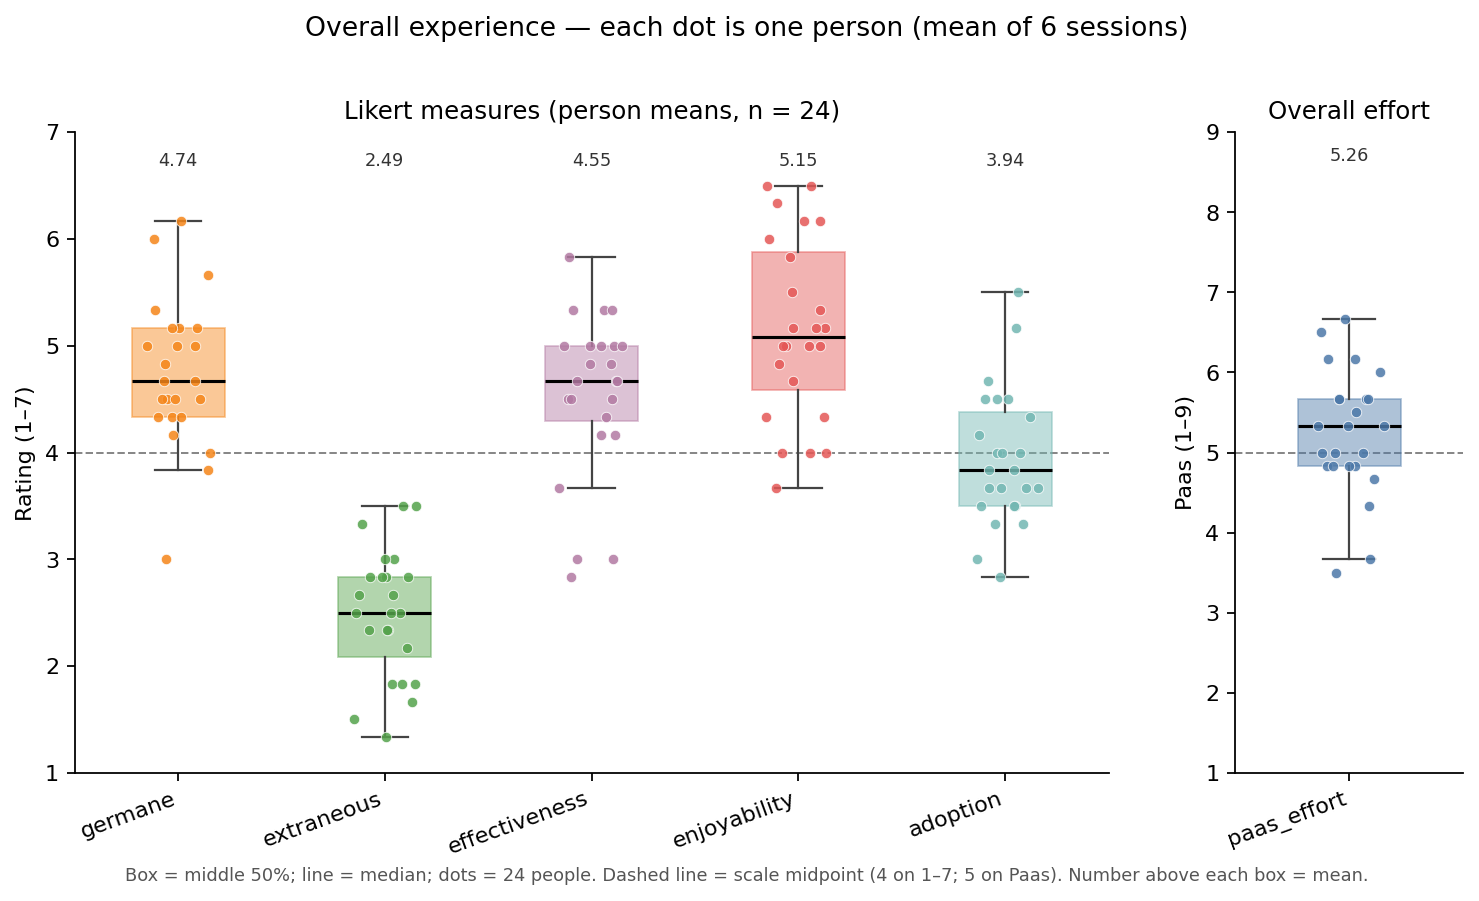
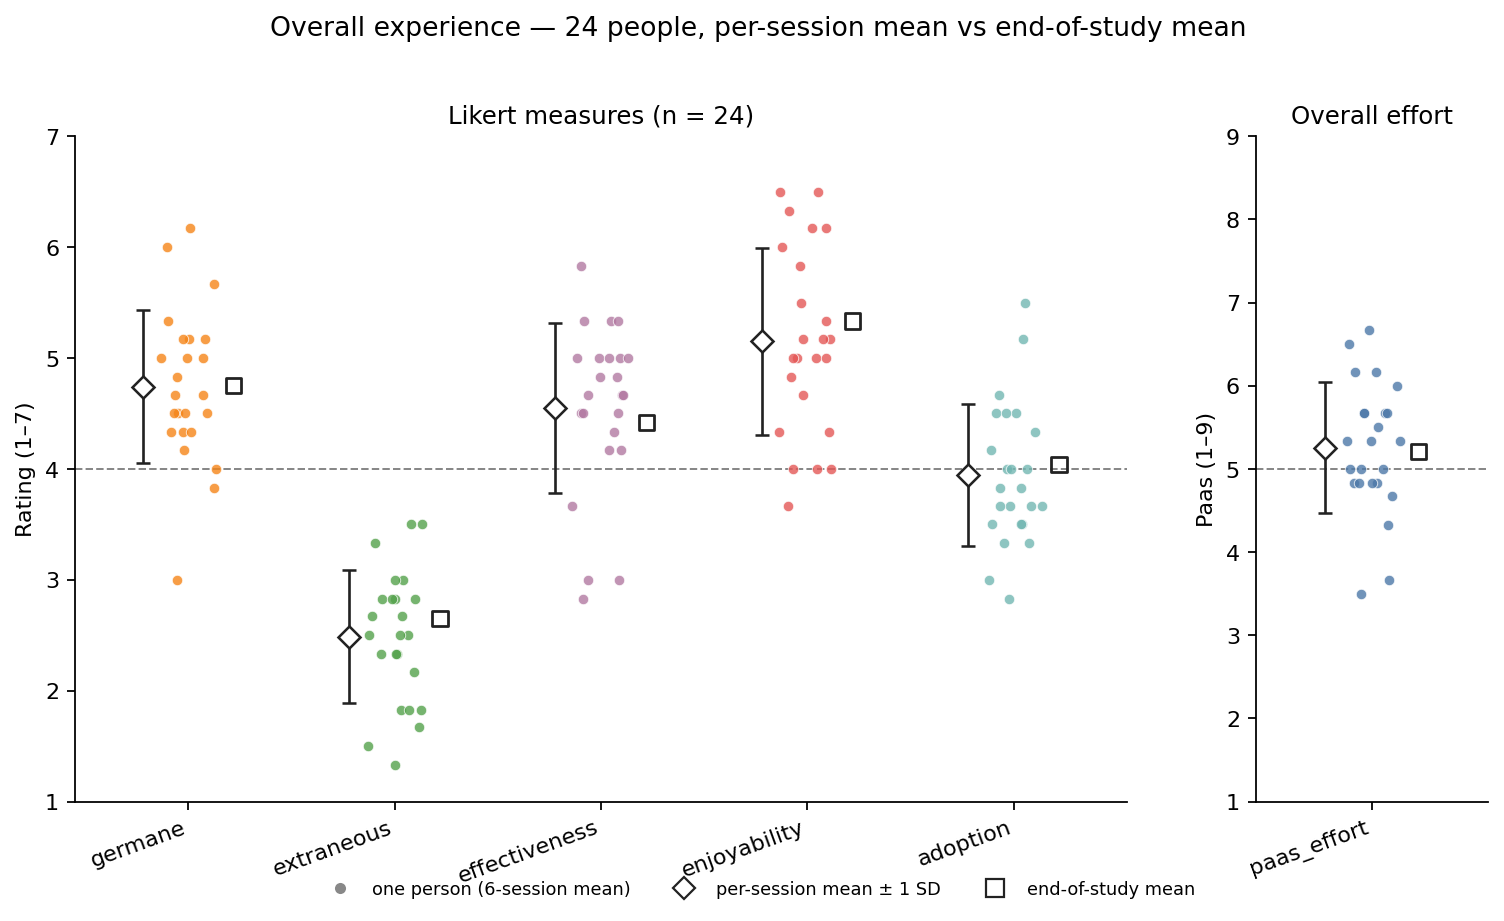
Updated report sample

diff --git a/analysis/rq2/sample-report-1/R2_example_report.md b/analysis/rq2/sample-report-1/R2_example_report.md
@@ -7,11 +7,10 @@
 - Per-session: one item each, 6 sessions.
 - End-of-study: 3-item scales of the same constructs, plus one Paas item (1–9).
 
-  
-**Descriptive only.** 
+**Descriptive only.**
 - Person is the unit: each per-session score below is that person’s mean across 6 sessions, unless a figure is explicitly by session.
 
-**How to read the scales.** 
+**How to read the scales.**
 - Paas 1–9: 5 = medium effort.
 - Items 2–6: 1–7, **4 = midpoint**. Above 4 = leans agree; below 4 = leans disagree.
 - For wasted effort, *lower is better*.
@@ -20,31 +19,31 @@
 
 ## 1. Overall experience
 
-- Each dot is one person (mean of their 6 session ratings).
-- Box = middle 50%; line in the box = median.
+- Each **dot** is one person (mean of their 6 session ratings).
+- **Filled diamond** = per-session mean; bar = **±1 SD**.
+- **Open square** = end-of-study mean (the group, not 24 extra dots).
 - Dashed line = scale midpoint.
-- Number above each box = mean.
 
 ![Overall experience](./img/01_overall_experience.png)
 
-**Read.** 
-- Effort was moderate (Paas mean 5.26 / 9, SD 0.79). 
-- People slightly agreed that the effort was worthwhile (germane 4.74)
-- and that comments helped them think (effectiveness 4.55).
+**Read.**
+- Effort was moderate (Paas session mean 5.26 / 9, SD 0.79; end-of-study 5.21).
+- People slightly agreed that the effort was worthwhile (germane 4.74) and that comments helped them think (effectiveness 4.55).
 - They enjoyed the sessions (5.15).
-- They **disagreed** that effort was wasted (extraneous 2.49).
+- They **disagreed** that effort was wasted (extraneous 2.48).
 - Adoption sat near the midpoint (3.94): not rejection, not enthusiasm.
+- Open squares sit next to the diamonds — the retrospective means land in the same place as the session means.
 
-**Matching table** (same 24 person-means as the figure):
+**Matching table** (diamond = session mean ± SD; square = end-of-study mean):
 
-| measure | mean | SD | min | Q1 | median | Q3 | max | n |
-| --- | --- | --- | --- | --- | --- | --- | --- | --- |
-| paas_effort | 5.26 | 0.79 | 3.50 | 4.83 | 5.33 | 5.67 | 6.67 | 24 |
-| germane | 4.74 | 0.69 | 3.00 | 4.33 | 4.67 | 5.17 | 6.17 | 24 |
-| extraneous | 2.49 | 0.60 | 1.33 | 2.08 | 2.50 | 2.83 | 3.50 | 24 |
-| effectiveness | 4.55 | 0.77 | 2.83 | 4.29 | 4.67 | 5.00 | 5.83 | 24 |
-| enjoyability | 5.15 | 0.84 | 3.67 | 4.58 | 5.08 | 5.88 | 6.50 | 24 |
-| adoption | 3.94 | 0.64 | 2.83 | 3.50 | 3.83 | 4.38 | 5.50 | 24 |
+| measure | session mean | SD | min | max | end-of-study mean | n |
+| --- | --- | --- | --- | --- | --- | --- |
+| paas_effort | 5.26 | 0.79 | 3.50 | 6.67 | 5.21 | 24 |
+| germane | 4.74 | 0.69 | 3.00 | 6.17 | 4.75 | 24 |
+| extraneous | 2.48 | 0.60 | 1.33 | 3.50 | 2.65 | 24 |
+| effectiveness | 4.55 | 0.77 | 2.83 | 5.83 | 4.42 | 24 |
+| enjoyability | 5.15 | 0.84 | 3.67 | 6.50 | 5.33 | 24 |
+| adoption | 3.94 | 0.64 | 2.83 | 5.50 | 4.04 | 24 |
 
 **Person-level values plotted as dots:**
 
@@ -75,39 +74,39 @@
 | 23 | 6.17 | 5.00 | 1.33 | 5.83 | 5.00 | 5.17 |
 | 24 | 5.00 | 4.00 | 1.83 | 4.83 | 5.17 | 4.00 |
 
-
 ---
 
 ## 2. Change across sessions
 
-Each point is the mean of 24 people that session. The band is **±1 SD** (how much people differed that day), not a confidence interval. Dashed line = midpoint.
+- Colored line = mean of 24 people that session.
+- Band = **±1 SD** (how much people differed that day), **not** a 95% confidence interval.
+- **Black line** = ordinary least squares through those 6 means (y = a + b x). A ruler for tilt, not a claim that the path was straight. No CI on this line.
+- Number on each panel = slope b (change per session). Dashed line = midpoint.
 
 ![Trend across sessions](./img/02_trends.png)
 
-**Read.** 
-- Five of six lines are essentially flat.
-- The move you can see is **enjoyability**: 5.67 in session 1 → 5.00 in session 6 (drop of 0.67 points).
-- That is a novelty fade, not a collapse — session 6 is still above the midpoint.
-- Wasted effort stays low the whole way.
+**Read.**
+- If the black line is almost horizontal **and** the colored dots wander around it, the measure is flat. Paas, germane, and extraneous are in that bucket.
+- **Enjoyability** is the one clear tilt: 5.67 in session 1 → 5.00 in session 6 (−0.16 / session). Novelty fade, not a collapse — session 6 is still above the midpoint.
+- Effectiveness (+0.13 / session) and adoption (+0.11 / session) slope up a little, but the path is jumpy (dip at S4, then a step). Trust S1 vs S6 more than the straight line.
+- Wasted effort stays low the whole way. The grey band is ~1 point wide, so 0.3 wiggles are small next to how much people disagree with each other.
 
-**Matching table** — each cell is mean (SD), n = 24. Same numbers as the line and the band.
+**Matching table** — each cell is mean (SD), n = 24. Fit slope is the black line.
 
-| measure | S1 | S2 | S3 | S4 | S5 | S6 |
-| --- | --- | --- | --- | --- | --- | --- |
-| paas_effort | 5.29 (1.27) | 5.25 (1.36) | 5.62 (1.47) | 5.00 (1.29) | 5.17 (1.31) | 5.21 (1.44) |
-| germane | 4.75 (0.85) | 4.67 (1.17) | 4.58 (0.93) | 4.46 (0.93) | 4.96 (1.33) | 5.04 (1.00) |
-| extraneous | 2.83 (0.96) | 2.33 (0.96) | 2.54 (1.06) | 2.17 (0.70) | 2.62 (0.97) | 2.42 (1.02) |
-| effectiveness | 4.29 (0.81) | 4.54 (0.98) | 4.46 (0.98) | 4.00 (1.10) | 5.00 (1.10) | 5.00 (1.38) |
-| enjoyability | 5.67 (1.09) | 5.42 (1.06) | 5.04 (1.16) | 5.21 (0.93) | 4.58 (1.06) | 5.00 (1.14) |
-| adoption | 3.67 (1.13) | 3.58 (0.88) | 4.12 (0.80) | 4.12 (1.19) | 3.96 (1.00) | 4.21 (0.98) |
-
-
+| measure | S1 | S2 | S3 | S4 | S5 | S6 | fit slope |
+| --- | --- | --- | --- | --- | --- | --- | --- |
+| paas_effort | 5.29 (1.27) | 5.25 (1.36) | 5.62 (1.47) | 5.00 (1.29) | 5.17 (1.31) | 5.21 (1.44) | −0.04 / session |
+| germane | 4.75 (0.85) | 4.67 (1.17) | 4.58 (0.93) | 4.46 (0.93) | 4.96 (1.33) | 5.04 (1.00) | +0.06 / session |
+| extraneous | 2.83 (0.96) | 2.33 (0.96) | 2.54 (1.06) | 2.17 (0.70) | 2.62 (0.97) | 2.42 (1.02) | −0.04 / session |
+| effectiveness | 4.29 (0.81) | 4.54 (0.98) | 4.46 (0.98) | 4.00 (1.10) | 5.00 (1.10) | 5.00 (1.38) | +0.13 / session |
+| enjoyability | 5.67 (1.09) | 5.42 (1.06) | 5.04 (1.16) | 5.21 (0.93) | 4.58 (1.06) | 5.00 (1.14) | −0.16 / session |
+| adoption | 3.67 (1.13) | 3.58 (0.88) | 4.12 (0.80) | 4.12 (1.19) | 3.96 (1.00) | 4.21 (0.98) | +0.11 / session |
 
 ---
 
 ## 3. End-of-study scales
 
-Fuller 3-item versions, one score per person (n = 24). Paas is a single item, so no alpha. No figure: this table is the result.
+Fuller 3-item versions, one score per person (n = 24). Paas is a single item, so no alpha. No figure: this table is the result. Group means also appear as the open squares in Section 1.
 
 | scale | α | mean | SD |
 | --- | --- | --- | --- |
@@ -118,14 +117,9 @@ Fuller 3-item versions, one score per person (n = 24). Paas is a single item, so
 | enjoyability | 0.81 | 5.33 | 0.90 |
 | adoption | 0.58 | 4.04 | 0.76 |
 
-**Read.** 
+**Read.**
 - Four scales hang together (α ≥ .70) — averaging the 3 items is fine.
-- Retrospective scores match the per-session story:
-  - moderate effort
-  - productive not wasted
-  - mild effectiveness
-  - clear enjoyment
-  - lukewarm adoption.
+- Retrospective scores match the per-session story: moderate effort, productive not wasted, mild effectiveness, clear enjoyment, lukewarm adoption.
 
 **Adoption (α = 0.58).** Items do not move as one. Report the pieces:
 
@@ -136,35 +130,39 @@ Fuller 3-item versions, one score per person (n = 24). Paas is a single item, so
 | I'd want this built into apps I already use | 3.71 | 0.95 |
 
 - People are more willing to **use it themselves** than to recommend it or want it in existing apps.
--  Do not treat α = 0.58 as a failed study; do not hide it either.
+- Do not treat α = 0.58 as a failed study; do not hide it either.
+- The Section 4 *r* for adoption is against this mushy average — read it loosely. The per-session item is closest to “I’d use it.”
 
 ---
 
 ## 4. Do the light items match the full scales?
 
-One dot = one person. Dashed line = perfect match. **r** is on each panel.
+- One dot = one person.
+- **Dashed line** = same number both times (*y = x*).
+- **Solid line** = best-fit: if I know the session average, what end-of-study score should I expect?
+- ***r*** = **Pearson** correlation: how tightly the dots hug the **solid** line, not the dashed one. Pearson matches that OLS line (it is the standardized slope). Spearman is not used here.
 
 ![Cross-check](./img/03_crosscheck.png)
 
 | | What *r* means here |
 | --- | --- |
-| ~.80+ | Light item tracked the full scale — per-session ratings are enough |
-| ~.50–.70 | Same direction, more noise — trust the **pattern**, not a person’s exact number |
-| <.50 | The two questionnaires are not measuring the same thing |
+| ~.80+ | Thin cigar around the solid line — the light item tracked the full scale |
+| ~.50–.70 | Same direction, fatter cloud — trust the **pattern**, not a person’s exact number |
+| <.50 | Round / tall smear — the two questionnaires are not measuring the same thing |
 
-**Read.** 
-- Enjoyability (*r* = 0.90) and Paas (*r* = 0.85) match well.
+**Read.**
+- Enjoyability (*r* = 0.90) and Paas (*r* = 0.85): thin along the solid line, and that line sits on the dashed diagonal — same ordering **and** similar numbers.
 - Germane (*r* = 0.80) is usable.
-- Adoption (*r* = 0.64) and extraneous (*r* = 0.69) are weaker.
--  Effectiveness (*r* = 0.50) is the mismatch: in-the-moment “this session helped” and the retrospective “the tool improved my thinking” are related but not the same. That is expected with one item vs three, not a reason to throw out the per-session item.
+- Adoption (*r* = 0.64) and extraneous (*r* = 0.69) are weaker (fatter around the solid line). Adoption’s *r* is also against a scale with α = .58.
+- Effectiveness (*r* = 0.50) is the mismatch: at a session mean of ~4.5, end-of-study scores run from about 2.7 to 6.3. That vertical smear **is** the lower *r*. In-the-moment “this session helped” and retrospective “the tool improved my thinking” are related but not the same. Expected with one item vs three; keep the per-session item.
 
 **Matching table** (same pairs as the figure):
 
-| measure | r | per-session mean | end-of-study mean |
+| measure | Pearson r | per-session mean | end-of-study mean |
 | --- | --- | --- | --- |
 | paas_effort | 0.85 | 5.26 | 5.21 |
 | germane | 0.80 | 4.74 | 4.75 |
-| extraneous | 0.69 | 2.49 | 2.65 |
+| extraneous | 0.69 | 2.48 | 2.65 |
 | effectiveness | 0.50 | 4.55 | 4.42 |
 | enjoyability | 0.90 | 5.15 | 5.33 |
 | adoption | 0.64 | 3.94 | 4.04 |
@@ -206,8 +204,7 @@ One panel, n = 24 person-means (same germane and extraneous columns as Section 1
 
 ![Germane vs extraneous](./img/04_germane_vs_extraneous.png)
 
-
-**Read.** 
+**Read.**
 - Almost everyone is in **useful, not wasted**: effort felt worthwhile *and* not confusing. That is the cognitive-load answer to RQ2.
 
 **Quadrant counts** (the four regions in the figure):
@@ -248,12 +245,11 @@ One panel, n = 24 person-means (same germane and extraneous columns as Section 1
 | 23 | 5.00 | 1.33 |
 | 24 | 4.00 | 1.83 |
 
-
 ---
 
 ## Takeaway
 
-- Users spent moderate effort that felt **worthwhile rather than wasted**, found the sessions **enjoyable**, and only **slightly** agreed that comments sharpened their thinking. 
+- Users spent moderate effort that felt **worthwhile rather than wasted**, found the sessions **enjoyable**, and only **slightly** agreed that comments sharpened their thinking.
 - They were **undecided** about adopting the tool.
 - Ratings were stable across six days except enjoyment, which eased off after session 1 but stayed positive.
 - The short per-session items mostly agree with the fuller end-of-study scales, except effectiveness (noisier) and adoption (items do not form a tight scale).
@@ -262,7 +258,7 @@ One panel, n = 24 person-means (same germane and extraneous columns as Section 1
 
 ### Figure index
 
-- `img/01_overall_experience.png` — person-level spread (box + 24 dots)
-- `img/02_trends.png` — mean ± 1 SD across 6 sessions
-- `img/03_crosscheck.png` — per-session average vs end-of-study
+- `img/01_overall_experience.png` — 24 dots, per-session mean ± 1 SD (diamond), end-of-study mean (square)
+- `img/02_trends.png` — session means ± 1 SD, plus a straight fit through the 6 means
+- `img/03_crosscheck.png` — per-session average vs end-of-study (dashed = same number, solid = fit)
 - `img/04_germane_vs_extraneous.png` — productive vs wasted effort
